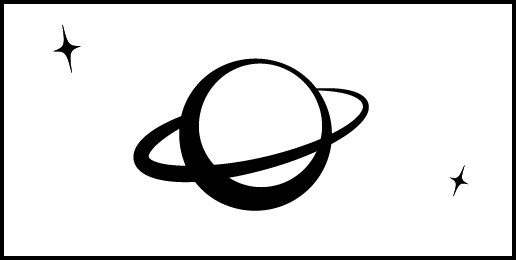
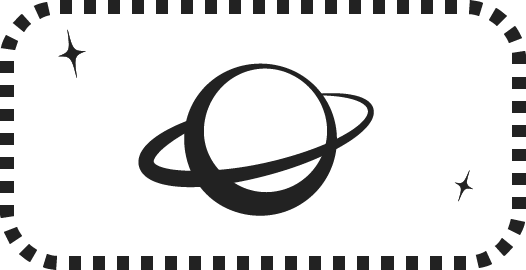
Major Design Overhauls

diff --git a/index.html b/index.html
@@ -17,11 +17,14 @@
 </head>
 
 <body>
-    <div id="prereq">
-      <!-- BG Stars -->
-      <img id="left-star" src="Content/star.png" class="antihighlight"/>
-      <img id="right-star" src="Content/star.png" class="antihighlight"/>
+  <div id="star-overlay">
+    <!-- BG Stars -->
+    <img id="left-star" src="Content/star.png" class="antihighlight"/>
+    <img id="right-star" src="Content/star.png" class="antihighlight"/>
+  </div>
 
+    <!-- Contains all prereq related "screens" and elements -->
+    <div id="prereq">
       <!-- Where we ask for camera permissions -->
       <div id="allowance-screen" class="antihighlight">
         <div id="allowance-text-area">
@@ -62,7 +65,7 @@
     <div id="loading-screen" class="antihighlight">
       <!-- https://github.com/lukehaas/css-loaders -->
       <div class="loader">Loading...</div>
-      <p id="loading-text">x/x</p>
+      <p id="loading-text">0/x</p>
     </div>
 
     <!-- This is the div that contains the video that is displayed after the user scans a picture -->

diff --git a/index.css b/index.css
@@ -35,6 +35,35 @@ body {
             transform: rotate(30deg) scale(0.8) scaleX(0.6);
 }
 
+#star-overlay {
+    pointer-events: none; 
+
+    position: fixed;
+    top: 0px;
+    right: 0px;
+
+    width: 100%;
+    height: 100%;
+
+    display: -webkit-box;
+
+    display: -ms-flexbox;
+
+    display: flex;
+    -webkit-box-orient: vertical;
+    -webkit-box-direction: normal;
+        -ms-flex-direction: column;
+            flex-direction: column;
+    -webkit-box-pack: center;
+        -ms-flex-pack: center;
+            justify-content: center;
+    -webkit-box-align: center;
+        -ms-flex-align: center;
+            align-items: center;
+
+    z-index: 110;
+}
+
 #prereq {
     position: fixed;
     top: 0px;

diff --git a/prereqCheck.js b/prereqCheck.js
@@ -6,7 +6,7 @@
  * @author Hunter W
  *
  * Created at     : 2020-10-20 11:57:25 
- * Last modified  : 2020-10-23 16:16:39
+ * Last modified  : 2020-10-23 17:33:20
  */
 
 
@@ -15,7 +15,7 @@
 // ************************************************
 
 // The prereq div that blocks the screen until all prereqs are checked
-var prereqElm 
+var prereqElm
 // The loading screen that displays until all NFT image data is loaded
 var loadingScreenElm
 
@@ -128,6 +128,7 @@ function FinishedLoading(e) {
     if(loadedNFTTags >= totalNFTTags) {
         watchingVideo = false
         loadingScreenElm.classList.add("invisible")
+        document.getElementById("star-overlay").classList.add("invisible")
     }
 }
 

diff --git a/scanner.js b/scanner.js
@@ -6,7 +6,7 @@
  * @author Hunter W
  *
  * Created at     : 2020-10-20 11:55:34 
- * Last modified  : 2020-10-23 16:16:28
+ * Last modified  : 2020-10-23 17:10:53
  */
 
  
@@ -55,8 +55,10 @@ function registerNFTFoundEvent(nftID, eventName, video) {
   // For each bound event, we increment the total NFT tags so loading is properly handled & displayed
   totalNFTTags += 1
   
+  // Adds the event attribute to the specified element
   document.getElementById(nftID).setAttribute(eventName)
 
+  // Registers the event attribute to the marker found event
   AFRAME.registerComponent(eventName, {
     init: function () {
         var marker = this.el
